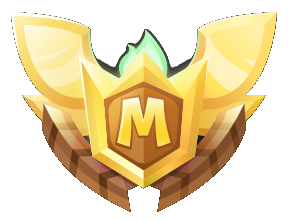
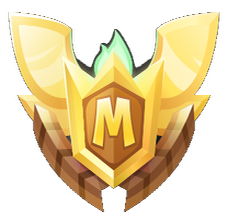
added rank logic and updated colors

diff --git a/app/screens/components/TDMDashboard.js b/app/screens/components/TDMDashboard.js
@@ -42,6 +42,34 @@ const TDMDashboard = (props) => {
         return isNaN(number?.toFixed(2)) ? '-' : `${number?.toFixed(2)}%`;
     };
 
+    const getRankByPerformance = (type, number) => {
+        if (isNaN(number)) {
+            return type === 'label' ? 'Perdedor' : images.ranks.loser;
+        } else {
+            if (number > 0 && number <= 10) {
+                return type === 'label' ? 'Estudiante' : images.ranks.prey;
+            }
+            if (number > 10 && number <= 20) {
+                return type === 'label' ? 'Junior' : images.ranks.junior;
+            }
+            if (number > 20 && number <= 30) {
+                return type === 'label' ? 'Semi Senior' : images.ranks.semisenior;
+            }
+            if (number > 30 && number <= 40) {
+                return type === 'label' ? 'Senior' : images.ranks.senior;
+            }
+            if (number > 40 && number <= 50) {
+                return type === 'label' ? 'Avanzado' : images.ranks.advanced;
+            }
+            if (number > 50 && number <= 70) {
+                return type === 'label' ? 'Profesional' : images.ranks.professional;
+            }
+            if (number > 70) {
+                return type === 'label' ? 'Maestro' : images.ranks.master;
+            }
+        }
+    };
+
     const fetchOperations = async () => {
         try {
             handlePropChange('loading', true);
@@ -123,8 +151,8 @@ const TDMDashboard = (props) => {
                             <Text style={styles.valueBigRed}>{state?.negatives}</Text>
                         </View>
                         <View style={styles.columnRank}>
-                            <Image style={styles.logo} source={images.ranks.master} />
-                            <Text style={styles.rankLabel}>Semi Senior</Text>
+                            <Image style={styles.logo} source={getRankByPerformance('icon', state?.performancePercentReal)} />
+                            <Text style={styles.rankLabel}>{getRankByPerformance('label', state?.performancePercentReal)}</Text>
                         </View>
                     </View>
                     <View style={styles.row}>
@@ -183,7 +211,7 @@ const styles = StyleSheet.create({
         alignItems: 'center',
         flexDirection: 'column',
         justifyContent: 'center',
-        marginRight: 30,
+        marginRight: 37,
         width: 110
     },
     corner: {
@@ -200,17 +228,17 @@ const styles = StyleSheet.create({
         marginTop: 20
     },
     logo: {
-        height: 80,
+        height: 100,
         position: 'absolute',
         top: -50,
-        width: 80
+        width: 105
     },
     rankLabel: {
-        color: colors.white,
+        color: colors.mainColor,
         fontSize: 14,
         fontWeight: '900',
         position: 'absolute',
-        top: 30
+        top: 50
     },
     row: {
         alignItems: 'center',
@@ -240,7 +268,7 @@ const styles = StyleSheet.create({
         fontWeight: 'bold'
     },
     valueBigWhite: {
-        color: colors.white,
+        color: colors.mainColor,
         fontSize: 30,
         fontWeight: 'bold'
     }

diff --git a/app/screens/components/TDMTabBar.js b/app/screens/components/TDMTabBar.js
@@ -75,11 +75,11 @@ function TDMTabBar({ state, descriptors, navigation }) {
                             name={getIcon(route?.name)}
                             size={25}
                             type="feather"
-                            color={isFocused ? colors.white : colors.gray}
+                            color={isFocused ? colors.mainColor : colors.gray}
                         />
                         <Text
                             style={{
-                                color: isFocused ? colors.white : colors.gray
+                                color: isFocused ? colors.mainColor : colors.gray
                             }}
                         >
                             {label}

diff --git a/app/assets/index.js b/app/assets/index.js
@@ -1,5 +1,6 @@
 const images = {
     ranks: {
+        loser: require('./loser.png'), 
         prey: require('./prey.png'),
         junior: require('./junior.png'),
         semisenior: require('./semi-senior.png'),
